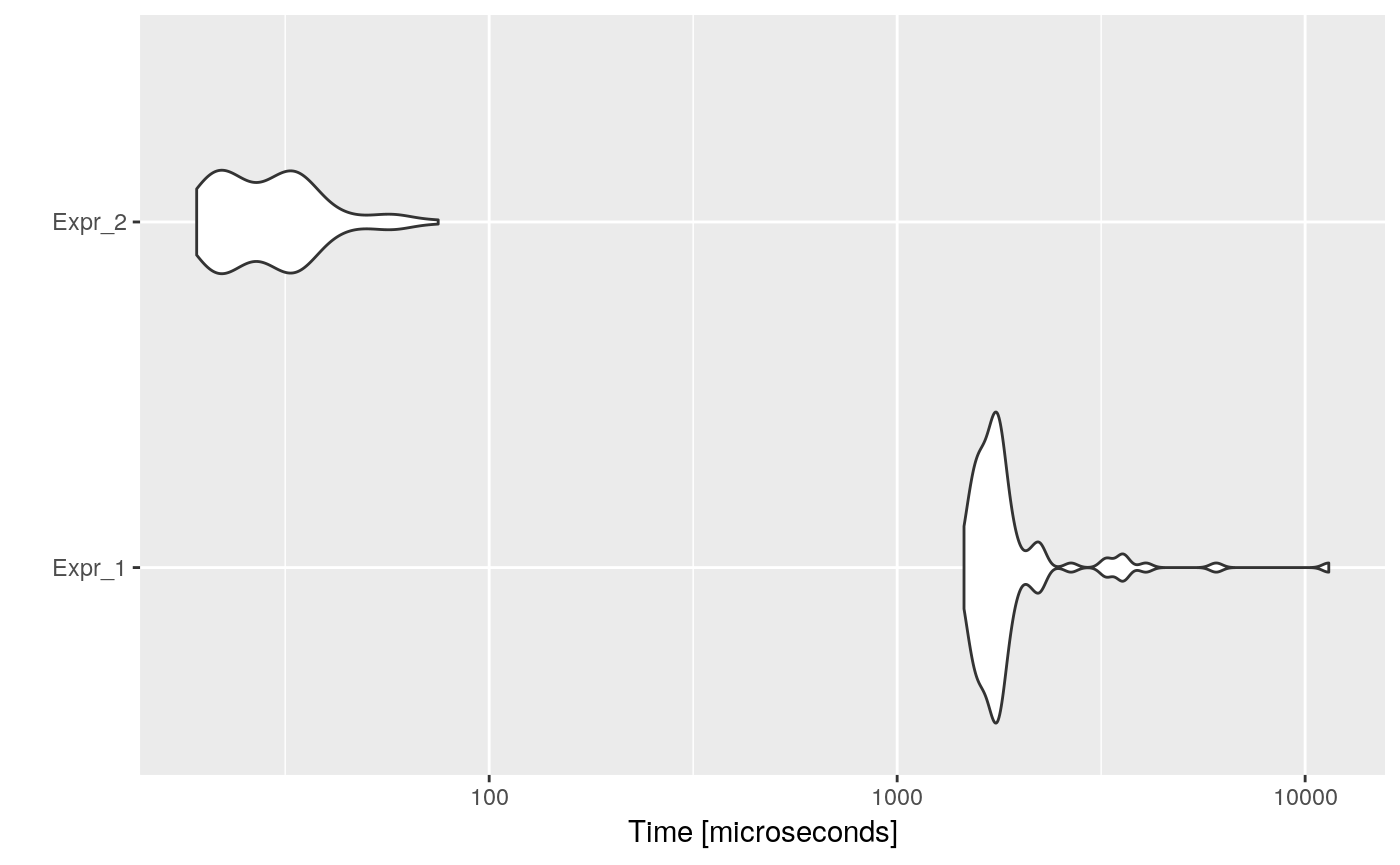
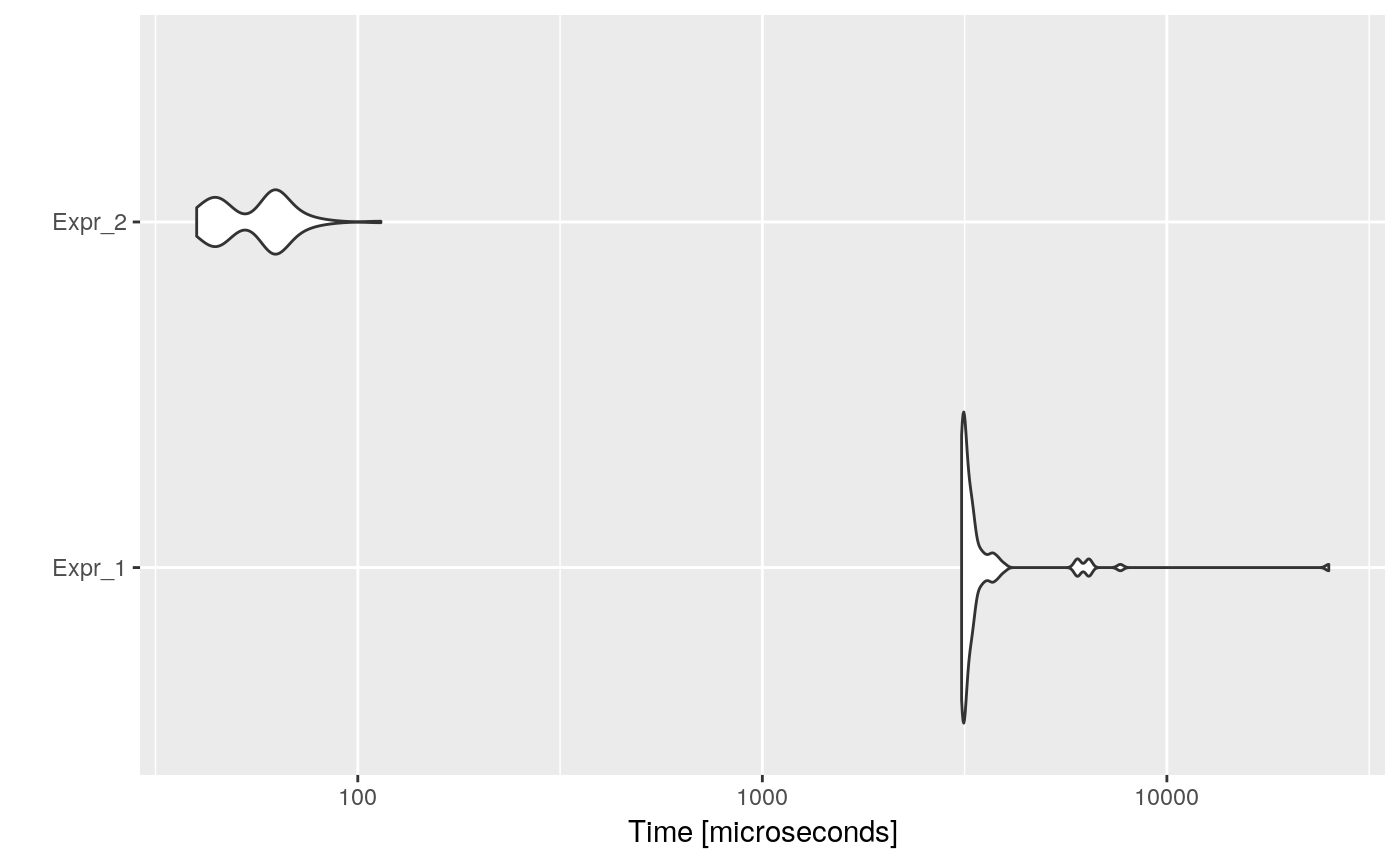
Working on vignettes

diff --git a/docs/articles/opt-constant-folding.html b/docs/articles/opt-constant-folding.html
@@ -118,8 +118,9 @@
 <a class="sourceLine" id="cb1-5" data-line-number="5">  <span class="st">"for (i in seq_along(hours_vector)) {"</span>,</a>
 <a class="sourceLine" id="cb1-6" data-line-number="6">  <span class="st">"  ms_vector[i] &lt;- 1000 * 60 * 60 * hours_vector[i]"</span>,</a>
 <a class="sourceLine" id="cb1-7" data-line-number="7">  <span class="st">"}"</span>,</a>
-<a class="sourceLine" id="cb1-8" data-line-number="8">  <span class="dt">sep =</span> <span class="st">"</span><span class="ch">\n</span><span class="st">"</span>)</a>
-<a class="sourceLine" id="cb1-9" data-line-number="9"><span class="kw"><a href="https://www.rdocumentation.org/packages/base/topics/cat">cat</a></span>(code)</a></code></pre></div>
+<a class="sourceLine" id="cb1-8" data-line-number="8">  <span class="dt">sep =</span> <span class="st">"</span><span class="ch">\n</span><span class="st">"</span></a>
+<a class="sourceLine" id="cb1-9" data-line-number="9">)</a>
+<a class="sourceLine" id="cb1-10" data-line-number="10"><span class="kw"><a href="https://www.rdocumentation.org/packages/base/topics/cat">cat</a></span>(code)</a></code></pre></div>
 <pre><code>## hours_vector &lt;- runif(1000, 0, 24)
 ## ms_vector &lt;- numeric(1000)
 ## # of course it would be much efficient to do vectorized operations xP
@@ -136,18 +137,16 @@
 ##   ms_vector[i] &lt;- 3600000 * hours_vector[i]
 ## }</code></pre>
 <p>And if we measure the execution time of each one, and the speed-up:</p>
-<div class="sourceCode" id="cb5"><pre class="sourceCode r"><code class="sourceCode r"><a class="sourceLine" id="cb5-1" data-line-number="1">bmark_res &lt;-<span class="st"> </span><span class="kw">microbenchmark</span>(</a>
-<a class="sourceLine" id="cb5-2" data-line-number="2">  {</a>
-<a class="sourceLine" id="cb5-3" data-line-number="3">    <span class="kw"><a href="https://www.rdocumentation.org/packages/base/topics/eval">eval</a></span>(<span class="kw"><a href="https://www.rdocumentation.org/packages/base/topics/parse">parse</a></span>(<span class="dt">text =</span> code))</a>
-<a class="sourceLine" id="cb5-4" data-line-number="4">  },{</a>
-<a class="sourceLine" id="cb5-5" data-line-number="5">    <span class="kw"><a href="https://www.rdocumentation.org/packages/base/topics/eval">eval</a></span>(<span class="kw"><a href="https://www.rdocumentation.org/packages/base/topics/parse">parse</a></span>(<span class="dt">text =</span> opt_code))</a>
-<a class="sourceLine" id="cb5-6" data-line-number="6">  }</a>
-<a class="sourceLine" id="cb5-7" data-line-number="7">)</a>
-<a class="sourceLine" id="cb5-8" data-line-number="8"><span class="kw">autoplot</span>(bmark_res)</a></code></pre></div>
+<div class="sourceCode" id="cb5"><pre class="sourceCode r"><code class="sourceCode r"><a class="sourceLine" id="cb5-1" data-line-number="1">bmark_res &lt;-<span class="st"> </span><span class="kw">microbenchmark</span>({</a>
+<a class="sourceLine" id="cb5-2" data-line-number="2">  <span class="kw"><a href="https://www.rdocumentation.org/packages/base/topics/eval">eval</a></span>(<span class="kw"><a href="https://www.rdocumentation.org/packages/base/topics/parse">parse</a></span>(<span class="dt">text =</span> code))</a>
+<a class="sourceLine" id="cb5-3" data-line-number="3">}, {</a>
+<a class="sourceLine" id="cb5-4" data-line-number="4">  <span class="kw"><a href="https://www.rdocumentation.org/packages/base/topics/eval">eval</a></span>(<span class="kw"><a href="https://www.rdocumentation.org/packages/base/topics/parse">parse</a></span>(<span class="dt">text =</span> opt_code))</a>
+<a class="sourceLine" id="cb5-5" data-line-number="5">})</a>
+<a class="sourceLine" id="cb5-6" data-line-number="6"><span class="kw">autoplot</span>(bmark_res)</a></code></pre></div>
 <p><img src="opt-constant-folding_files/figure-html/unnamed-chunk-4-1.png" width="700"></p>
 <div class="sourceCode" id="cb6"><pre class="sourceCode r"><code class="sourceCode r"><a class="sourceLine" id="cb6-1" data-line-number="1"><span class="kw">speed_up</span>(bmark_res)</a></code></pre></div>
-<pre><code>##            Min. 1st Qu.   Median     Mean  3rd Qu.     Max.
-## Expr_2 29.95002 27.6251 27.80482 29.47153 26.90708 98.34316</code></pre>
+<pre><code>##            Min.  1st Qu.   Median     Mean  3rd Qu.    Max.
+## Expr_2 30.23307 29.42191 27.46907 30.21779 27.36832 94.2033</code></pre>
 </div>
 <div id="implementation" class="section level2">
 <h2 class="hasAnchor">
@@ -162,9 +161,9 @@
 <h2 class="hasAnchor">
 <a href="#floating-point-precision" class="anchor"></a>Floating-point precision</h2>
 <p>When constant folding, we can have floating-point precision issues, for instance, consider the following code:</p>
-<div class="sourceCode" id="cb11"><pre class="sourceCode r"><code class="sourceCode r"><a class="sourceLine" id="cb11-1" data-line-number="1">x &lt;-<span class="st"> </span><span class="dv">1</span><span class="op">/</span>(<span class="dv">2</span><span class="op">+</span><span class="dv">1</span>)</a>
-<a class="sourceLine" id="cb11-2" data-line-number="2">y &lt;-<span class="st"> </span><span class="dv">1</span><span class="op">/</span>(<span class="dv">2</span><span class="op">+</span><span class="dv">1</span>)</a>
-<a class="sourceLine" id="cb11-3" data-line-number="3">z &lt;-<span class="st"> </span><span class="dv">1</span><span class="op">/</span>(<span class="dv">2</span><span class="op">+</span><span class="dv">1</span>)</a>
+<div class="sourceCode" id="cb11"><pre class="sourceCode r"><code class="sourceCode r"><a class="sourceLine" id="cb11-1" data-line-number="1">x &lt;-<span class="st"> </span><span class="dv">1</span> <span class="op">/</span><span class="st"> </span>(<span class="dv">2</span> <span class="op">+</span><span class="st"> </span><span class="dv">1</span>)</a>
+<a class="sourceLine" id="cb11-2" data-line-number="2">y &lt;-<span class="st"> </span><span class="dv">1</span> <span class="op">/</span><span class="st"> </span>(<span class="dv">2</span> <span class="op">+</span><span class="st"> </span><span class="dv">1</span>)</a>
+<a class="sourceLine" id="cb11-3" data-line-number="3">z &lt;-<span class="st"> </span><span class="dv">1</span> <span class="op">/</span><span class="st"> </span>(<span class="dv">2</span> <span class="op">+</span><span class="st"> </span><span class="dv">1</span>)</a>
 <a class="sourceLine" id="cb11-4" data-line-number="4">x <span class="op">+</span><span class="st"> </span>y <span class="op">+</span><span class="st"> </span>z <span class="op">==</span><span class="st"> </span><span class="dv">1</span></a></code></pre></div>
 <pre><code>## [1] TRUE</code></pre>
 <p>If we constant fold it, we would have:</p>
@@ -173,9 +172,10 @@
 <a class="sourceLine" id="cb13-3" data-line-number="3">  <span class="st">"y &lt;- 1/(2+1)"</span>,</a>
 <a class="sourceLine" id="cb13-4" data-line-number="4">  <span class="st">"z &lt;- 1/(2+1)"</span>,</a>
 <a class="sourceLine" id="cb13-5" data-line-number="5">  <span class="st">"x + y + z == 1"</span>,</a>
-<a class="sourceLine" id="cb13-6" data-line-number="6">  <span class="dt">sep =</span> <span class="st">"</span><span class="ch">\n</span><span class="st">"</span>)</a>
-<a class="sourceLine" id="cb13-7" data-line-number="7">opt_code &lt;-<span class="st"> </span><span class="kw"><a href="../reference/opt_constant_folding.html">opt_constant_folding</a></span>(<span class="kw"><a href="https://www.rdocumentation.org/packages/base/topics/list">list</a></span>(code), <span class="dt">fold_floats =</span> <span class="ot">TRUE</span>)<span class="op">$</span>codes[[<span class="dv">1</span>]]</a>
-<a class="sourceLine" id="cb13-8" data-line-number="8"><span class="kw"><a href="https://www.rdocumentation.org/packages/base/topics/cat">cat</a></span>(opt_code)</a></code></pre></div>
+<a class="sourceLine" id="cb13-6" data-line-number="6">  <span class="dt">sep =</span> <span class="st">"</span><span class="ch">\n</span><span class="st">"</span></a>
+<a class="sourceLine" id="cb13-7" data-line-number="7">)</a>
+<a class="sourceLine" id="cb13-8" data-line-number="8">opt_code &lt;-<span class="st"> </span><span class="kw"><a href="../reference/opt_constant_folding.html">opt_constant_folding</a></span>(<span class="kw"><a href="https://www.rdocumentation.org/packages/base/topics/list">list</a></span>(code), <span class="dt">fold_floats =</span> <span class="ot">TRUE</span>)<span class="op">$</span>codes[[<span class="dv">1</span>]]</a>
+<a class="sourceLine" id="cb13-9" data-line-number="9"><span class="kw"><a href="https://www.rdocumentation.org/packages/base/topics/cat">cat</a></span>(opt_code)</a></code></pre></div>
 <pre><code>## x &lt;- 0.333333333333333
 ## y &lt;- 0.333333333333333
 ## z &lt;- 0.333333333333333
@@ -194,10 +194,11 @@
 ## x + y + z == 1</code></pre>
 <p>Consider this nice example where a sub-expression folding causes precision loss, but as it is not important in overall, then it can be folded:</p>
 <div class="sourceCode" id="cb21"><pre class="sourceCode r"><code class="sourceCode r"><a class="sourceLine" id="cb21-1" data-line-number="1">opt_code &lt;-<span class="st"> </span><span class="kw"><a href="../reference/opt_constant_folding.html">opt_constant_folding</a></span>(<span class="kw"><a href="https://www.rdocumentation.org/packages/base/topics/list">list</a></span>(<span class="kw"><a href="https://www.rdocumentation.org/packages/base/topics/paste">paste</a></span>(</a>
-<a class="sourceLine" id="cb21-2" data-line-number="2">  <span class="st">"x &lt;- 1/(2+1)"</span>,     <span class="co"># will not fold it because we lose precision</span></a>
+<a class="sourceLine" id="cb21-2" data-line-number="2">  <span class="st">"x &lt;- 1/(2+1)"</span>, <span class="co"># will not fold it because we lose precision</span></a>
 <a class="sourceLine" id="cb21-3" data-line-number="3">  <span class="st">"y &lt;- 1/(2+1) &gt; 3"</span>, <span class="co"># however, folded or not, it is not &gt; 3, so folds it</span></a>
-<a class="sourceLine" id="cb21-4" data-line-number="4">  <span class="dt">sep =</span> <span class="st">"</span><span class="ch">\n</span><span class="st">"</span>)), <span class="dt">fold_floats =</span> <span class="ot">FALSE</span>)<span class="op">$</span>codes[[<span class="dv">1</span>]]</a>
-<a class="sourceLine" id="cb21-5" data-line-number="5"><span class="kw"><a href="https://www.rdocumentation.org/packages/base/topics/cat">cat</a></span>(opt_code)</a></code></pre></div>
+<a class="sourceLine" id="cb21-4" data-line-number="4">  <span class="dt">sep =</span> <span class="st">"</span><span class="ch">\n</span><span class="st">"</span></a>
+<a class="sourceLine" id="cb21-5" data-line-number="5">)), <span class="dt">fold_floats =</span> <span class="ot">FALSE</span>)<span class="op">$</span>codes[[<span class="dv">1</span>]]</a>
+<a class="sourceLine" id="cb21-6" data-line-number="6"><span class="kw"><a href="https://www.rdocumentation.org/packages/base/topics/cat">cat</a></span>(opt_code)</a></code></pre></div>
 <pre><code>## x &lt;- 1/3
 ## y &lt;- FALSE</code></pre>
 </div>
@@ -220,8 +221,8 @@
 <p>For example: If we have <code><a href="https://www.rdocumentation.org/packages/base/topics/paste">paste("aa", "bb")</a></code>, we know that this can be folded to <code>"aa bb"</code>. The optimizer could try function calls that have all constants as input.</p>
 <p>However, this could break the optimizer, for instance, if we try to optimize the following code (when evaluating <code>foo(3)</code>):</p>
 <div class="sourceCode" id="cb23"><pre class="sourceCode r"><code class="sourceCode r"><a class="sourceLine" id="cb23-1" data-line-number="1">foo &lt;-<span class="st"> </span><span class="cf">function</span>(x) {</a>
-<a class="sourceLine" id="cb23-2" data-line-number="2">  <span class="cf">while</span>(<span class="ot">TRUE</span>) {</a>
-<a class="sourceLine" id="cb23-3" data-line-number="3">    x &lt;-<span class="st"> </span>x<span class="op">+</span><span class="dv">1</span></a>
+<a class="sourceLine" id="cb23-2" data-line-number="2">  <span class="cf">while</span> (<span class="ot">TRUE</span>) {</a>
+<a class="sourceLine" id="cb23-3" data-line-number="3">    x &lt;-<span class="st"> </span>x <span class="op">+</span><span class="st"> </span><span class="dv">1</span></a>
 <a class="sourceLine" id="cb23-4" data-line-number="4">  }</a>
 <a class="sourceLine" id="cb23-5" data-line-number="5">}</a>
 <a class="sourceLine" id="cb23-6" data-line-number="6"><span class="kw">foo</span>(<span class="dv">3</span>)</a></code></pre></div>

diff --git a/docs/articles/opt-constant-propagation.html b/docs/articles/opt-constant-propagation.html
@@ -128,8 +128,9 @@
 <a class="sourceLine" id="cb3-9" data-line-number="9">  <span class="st">"for (i in 1:n) {"</span>,</a>
 <a class="sourceLine" id="cb3-10" data-line-number="10">  <span class="st">"  ms_vector[i] &lt;- secs_to_ms * mins_to_secs * hs_to_mins * hours_vector[i]"</span>,</a>
 <a class="sourceLine" id="cb3-11" data-line-number="11">  <span class="st">"}"</span>,</a>
-<a class="sourceLine" id="cb3-12" data-line-number="12">  <span class="dt">sep =</span> <span class="st">"</span><span class="ch">\n</span><span class="st">"</span>)</a>
-<a class="sourceLine" id="cb3-13" data-line-number="13"><span class="kw"><a href="https://www.rdocumentation.org/packages/base/topics/cat">cat</a></span>(code)</a></code></pre></div>
+<a class="sourceLine" id="cb3-12" data-line-number="12">  <span class="dt">sep =</span> <span class="st">"</span><span class="ch">\n</span><span class="st">"</span></a>
+<a class="sourceLine" id="cb3-13" data-line-number="13">)</a>
+<a class="sourceLine" id="cb3-14" data-line-number="14"><span class="kw"><a href="https://www.rdocumentation.org/packages/base/topics/cat">cat</a></span>(code)</a></code></pre></div>
 <pre><code>## n &lt;- 1000
 ## hours_vector &lt;- runif(n, 0, 24)
 ## ms_vector &lt;- numeric(n)
@@ -154,18 +155,16 @@
 ##   ms_vector[i] &lt;- 1000 * 60 * 60 * hours_vector[i]
 ## }</code></pre>
 <p>And if we measure the execution time of each one, and the speed-up:</p>
-<div class="sourceCode" id="cb7"><pre class="sourceCode r"><code class="sourceCode r"><a class="sourceLine" id="cb7-1" data-line-number="1">bmark_res &lt;-<span class="st"> </span><span class="kw">microbenchmark</span>(</a>
-<a class="sourceLine" id="cb7-2" data-line-number="2">  {</a>
-<a class="sourceLine" id="cb7-3" data-line-number="3">    <span class="kw"><a href="https://www.rdocumentation.org/packages/base/topics/eval">eval</a></span>(<span class="kw"><a href="https://www.rdocumentation.org/packages/base/topics/parse">parse</a></span>(<span class="dt">text =</span> code))</a>
-<a class="sourceLine" id="cb7-4" data-line-number="4">  },{</a>
-<a class="sourceLine" id="cb7-5" data-line-number="5">    <span class="kw"><a href="https://www.rdocumentation.org/packages/base/topics/eval">eval</a></span>(<span class="kw"><a href="https://www.rdocumentation.org/packages/base/topics/parse">parse</a></span>(<span class="dt">text =</span> opt_code))</a>
-<a class="sourceLine" id="cb7-6" data-line-number="6">  }</a>
-<a class="sourceLine" id="cb7-7" data-line-number="7">)</a>
-<a class="sourceLine" id="cb7-8" data-line-number="8"><span class="kw">autoplot</span>(bmark_res)</a></code></pre></div>
+<div class="sourceCode" id="cb7"><pre class="sourceCode r"><code class="sourceCode r"><a class="sourceLine" id="cb7-1" data-line-number="1">bmark_res &lt;-<span class="st"> </span><span class="kw">microbenchmark</span>({</a>
+<a class="sourceLine" id="cb7-2" data-line-number="2">  <span class="kw"><a href="https://www.rdocumentation.org/packages/base/topics/eval">eval</a></span>(<span class="kw"><a href="https://www.rdocumentation.org/packages/base/topics/parse">parse</a></span>(<span class="dt">text =</span> code))</a>
+<a class="sourceLine" id="cb7-3" data-line-number="3">}, {</a>
+<a class="sourceLine" id="cb7-4" data-line-number="4">  <span class="kw"><a href="https://www.rdocumentation.org/packages/base/topics/eval">eval</a></span>(<span class="kw"><a href="https://www.rdocumentation.org/packages/base/topics/parse">parse</a></span>(<span class="dt">text =</span> opt_code))</a>
+<a class="sourceLine" id="cb7-5" data-line-number="5">})</a>
+<a class="sourceLine" id="cb7-6" data-line-number="6"><span class="kw">autoplot</span>(bmark_res)</a></code></pre></div>
 <p><img src="opt-constant-propagation_files/figure-html/unnamed-chunk-6-1.png" width="700"></p>
 <div class="sourceCode" id="cb8"><pre class="sourceCode r"><code class="sourceCode r"><a class="sourceLine" id="cb8-1" data-line-number="1"><span class="kw">speed_up</span>(bmark_res)</a></code></pre></div>
-<pre><code>##           Min.  1st Qu.   Median     Mean 3rd Qu.     Max.
-## Expr_2 28.1905 26.90061 27.12792 29.19392 25.7907 65.32929</code></pre>
+<pre><code>##           Min.  1st Qu.   Median     Mean  3rd Qu.     Max.
+## Expr_2 27.5155 26.67627 26.33695 29.38792 27.62149 110.7545</code></pre>
 </div>
 <div id="implementation" class="section level2">
 <h2 class="hasAnchor">
@@ -251,17 +250,17 @@
 <a class="sourceLine" id="cb13-3" data-line-number="3">y &lt;-<span class="st"> </span><span class="dv">1</span></a></code></pre></div>
 <p>In R we can list which <code>base</code> functions modify the environment, for example, <code>assign</code>, <code>rm</code>, etc. However, this would not be a solution, as we can define new functions that wrap the <code>base</code> ones, for instance:</p>
 <div class="sourceCode" id="cb14"><pre class="sourceCode r"><code class="sourceCode r"><a class="sourceLine" id="cb14-1" data-line-number="1">rm_all &lt;-<span class="st"> </span><span class="cf">function</span>() {</a>
-<a class="sourceLine" id="cb14-2" data-line-number="2">  env &lt;-<span class="st"> </span>.GlobalEnv</a>
-<a class="sourceLine" id="cb14-3" data-line-number="3">  <span class="kw"><a href="https://www.rdocumentation.org/packages/base/topics/rm">rm</a></span>(<span class="dt">list =</span> <span class="kw"><a href="https://www.rdocumentation.org/packages/base/topics/ls">ls</a></span>(<span class="dt">envir =</span> env), <span class="dt">envir =</span> env)</a>
+<a class="sourceLine" id="cb14-2" data-line-number="2">env &lt;-<span class="st"> </span>.GlobalEnv</a>
+<a class="sourceLine" id="cb14-3" data-line-number="3"><span class="kw"><a href="https://www.rdocumentation.org/packages/base/topics/rm">rm</a></span>(<span class="dt">list =</span> <span class="kw"><a href="https://www.rdocumentation.org/packages/base/topics/ls">ls</a></span>(<span class="dt">envir =</span> env), <span class="dt">envir =</span> env)</a>
 <a class="sourceLine" id="cb14-4" data-line-number="4">}</a></code></pre></div>
 <p>A possible solution would be to let the user identify which functions edit the environment.</p>
 <ul>
 <li>
 <p>in a <code>roxygen2</code> way:</p>
-<div class="sourceCode" id="cb15"><pre class="sourceCode r"><code class="sourceCode r"><a class="sourceLine" id="cb15-1" data-line-number="1"><span class="co">#o @edits_env rm_all</span></a>
+<div class="sourceCode" id="cb15"><pre class="sourceCode r"><code class="sourceCode r"><a class="sourceLine" id="cb15-1" data-line-number="1"><span class="co"># o @edits_env rm_all</span></a>
 <a class="sourceLine" id="cb15-2" data-line-number="2">...</a></code></pre></div>
 <p>or</p>
-<div class="sourceCode" id="cb16"><pre class="sourceCode r"><code class="sourceCode r"><a class="sourceLine" id="cb16-1" data-line-number="1"><span class="kw">rm_all</span>() <span class="co">#o @edits_env</span></a></code></pre></div>
+<div class="sourceCode" id="cb16"><pre class="sourceCode r"><code class="sourceCode r"><a class="sourceLine" id="cb16-1" data-line-number="1"><span class="kw">rm_all</span>() <span class="co"># o @edits_env</span></a></code></pre></div>
 </li>
 <li>
 <p>by parameter:</p>

diff --git a/docs/articles/opt-dead-code.html b/docs/articles/opt-dead-code.html
@@ -111,7 +111,7 @@
 <a class="sourceLine" id="cb1-5" data-line-number="5">    a &lt;-<span class="st"> </span><span class="dv">25</span> <span class="co"># dead code</span></a>
 <a class="sourceLine" id="cb1-6" data-line-number="6">  }</a>
 <a class="sourceLine" id="cb1-7" data-line-number="7">  <span class="kw"><a href="https://www.rdocumentation.org/packages/base/topics/function">return</a></span>(a)</a>
-<a class="sourceLine" id="cb1-8" data-line-number="8">  b &lt;-<span class="st"> </span><span class="dv">24</span>   <span class="co"># dead code</span></a>
+<a class="sourceLine" id="cb1-8" data-line-number="8">  b &lt;-<span class="st"> </span><span class="dv">24</span> <span class="co"># dead code</span></a>
 <a class="sourceLine" id="cb1-9" data-line-number="9">  <span class="kw"><a href="https://www.rdocumentation.org/packages/base/topics/function">return</a></span>(b) <span class="co"># dead code</span></a>
 <a class="sourceLine" id="cb1-10" data-line-number="10">}</a></code></pre></div>
 <p>In functions, after calling <code>return</code>, the following code would not be executed, so it is dead code and can be eliminated. In this example, resulting in:</p>
@@ -151,8 +151,9 @@
 <a class="sourceLine" id="cb5-8" data-line-number="8">  <span class="st">"    i &lt;- i - 1"</span>,</a>
 <a class="sourceLine" id="cb5-9" data-line-number="9">  <span class="st">"  }"</span>,</a>
 <a class="sourceLine" id="cb5-10" data-line-number="10">  <span class="st">"}"</span>,</a>
-<a class="sourceLine" id="cb5-11" data-line-number="11">  <span class="dt">sep =</span> <span class="st">"</span><span class="ch">\n</span><span class="st">"</span>)</a>
-<a class="sourceLine" id="cb5-12" data-line-number="12"><span class="kw"><a href="https://www.rdocumentation.org/packages/base/topics/cat">cat</a></span>(code)</a></code></pre></div>
+<a class="sourceLine" id="cb5-11" data-line-number="11">  <span class="dt">sep =</span> <span class="st">"</span><span class="ch">\n</span><span class="st">"</span></a>
+<a class="sourceLine" id="cb5-12" data-line-number="12">)</a>
+<a class="sourceLine" id="cb5-13" data-line-number="13"><span class="kw"><a href="https://www.rdocumentation.org/packages/base/topics/cat">cat</a></span>(code)</a></code></pre></div>
 <pre><code>## i &lt;- 0
 ## n &lt;- 1000
 ## while (i &lt; n) {
@@ -171,18 +172,16 @@
 ##   i &lt;- i + 1
 ## }</code></pre>
 <p>And if we measure the execution time of each one, and the speed-up:</p>
-<div class="sourceCode" id="cb9"><pre class="sourceCode r"><code class="sourceCode r"><a class="sourceLine" id="cb9-1" data-line-number="1">bmark_res &lt;-<span class="st"> </span><span class="kw">microbenchmark</span>(</a>
-<a class="sourceLine" id="cb9-2" data-line-number="2">  {</a>
-<a class="sourceLine" id="cb9-3" data-line-number="3">    <span class="kw"><a href="https://www.rdocumentation.org/packages/base/topics/eval">eval</a></span>(<span class="kw"><a href="https://www.rdocumentation.org/packages/base/topics/parse">parse</a></span>(<span class="dt">text =</span> code))</a>
-<a class="sourceLine" id="cb9-4" data-line-number="4">  },{</a>
-<a class="sourceLine" id="cb9-5" data-line-number="5">    <span class="kw"><a href="https://www.rdocumentation.org/packages/base/topics/eval">eval</a></span>(<span class="kw"><a href="https://www.rdocumentation.org/packages/base/topics/parse">parse</a></span>(<span class="dt">text =</span> opt_code))</a>
-<a class="sourceLine" id="cb9-6" data-line-number="6">  }</a>
-<a class="sourceLine" id="cb9-7" data-line-number="7">)</a>
-<a class="sourceLine" id="cb9-8" data-line-number="8"><span class="kw">autoplot</span>(bmark_res)</a></code></pre></div>
+<div class="sourceCode" id="cb9"><pre class="sourceCode r"><code class="sourceCode r"><a class="sourceLine" id="cb9-1" data-line-number="1">bmark_res &lt;-<span class="st"> </span><span class="kw">microbenchmark</span>({</a>
+<a class="sourceLine" id="cb9-2" data-line-number="2">  <span class="kw"><a href="https://www.rdocumentation.org/packages/base/topics/eval">eval</a></span>(<span class="kw"><a href="https://www.rdocumentation.org/packages/base/topics/parse">parse</a></span>(<span class="dt">text =</span> code))</a>
+<a class="sourceLine" id="cb9-3" data-line-number="3">}, {</a>
+<a class="sourceLine" id="cb9-4" data-line-number="4">  <span class="kw"><a href="https://www.rdocumentation.org/packages/base/topics/eval">eval</a></span>(<span class="kw"><a href="https://www.rdocumentation.org/packages/base/topics/parse">parse</a></span>(<span class="dt">text =</span> opt_code))</a>
+<a class="sourceLine" id="cb9-5" data-line-number="5">})</a>
+<a class="sourceLine" id="cb9-6" data-line-number="6"><span class="kw">autoplot</span>(bmark_res)</a></code></pre></div>
 <p><img src="opt-dead-code_files/figure-html/unnamed-chunk-8-1.png" width="700"></p>
 <div class="sourceCode" id="cb10"><pre class="sourceCode r"><code class="sourceCode r"><a class="sourceLine" id="cb10-1" data-line-number="1"><span class="kw">speed_up</span>(bmark_res)</a></code></pre></div>
 <pre><code>##            Min.  1st Qu.   Median     Mean  3rd Qu.     Max.
-## Expr_2 76.00323 73.18381 59.17304 66.01933 53.73879 152.3859</code></pre>
+## Expr_2 77.77906 69.22096 52.54578 65.76184 53.36556 220.3513</code></pre>
 </div>
 <div id="implementation" class="section level2">
 <h2 class="hasAnchor">
@@ -213,7 +212,7 @@
 <p>When coding, for debugging, sometimes instead of using <code>print</code> or <code>cat</code> we just write the expression. This causes that we get code as for example:</p>
 <div class="sourceCode" id="cb12"><pre class="sourceCode r"><code class="sourceCode r"><a class="sourceLine" id="cb12-1" data-line-number="1">foo &lt;-<span class="st"> </span><span class="cf">function</span>(x) {</a>
 <a class="sourceLine" id="cb12-2" data-line-number="2">  x <span class="op">!=</span><span class="st"> </span><span class="dv">0</span></a>
-<a class="sourceLine" id="cb12-3" data-line-number="3">  <span class="kw"><a href="https://www.rdocumentation.org/packages/base/topics/function">return</a></span>(<span class="dv">100</span><span class="op">/</span>x)</a>
+<a class="sourceLine" id="cb12-3" data-line-number="3">  <span class="kw"><a href="https://www.rdocumentation.org/packages/base/topics/function">return</a></span>(<span class="dv">100</span> <span class="op">/</span><span class="st"> </span>x)</a>
 <a class="sourceLine" id="cb12-4" data-line-number="4">}</a></code></pre></div>
 <p>Here, the expression <code>x != 0</code> would be evaluated each time we call the <code>foo</code> function, but would not have any effect as it is not assigned, nor printed. And thus, could be removed.</p>
 <p>However, removing expressions could result in behaviour missmatches, for instance, the following two codes:</p>
